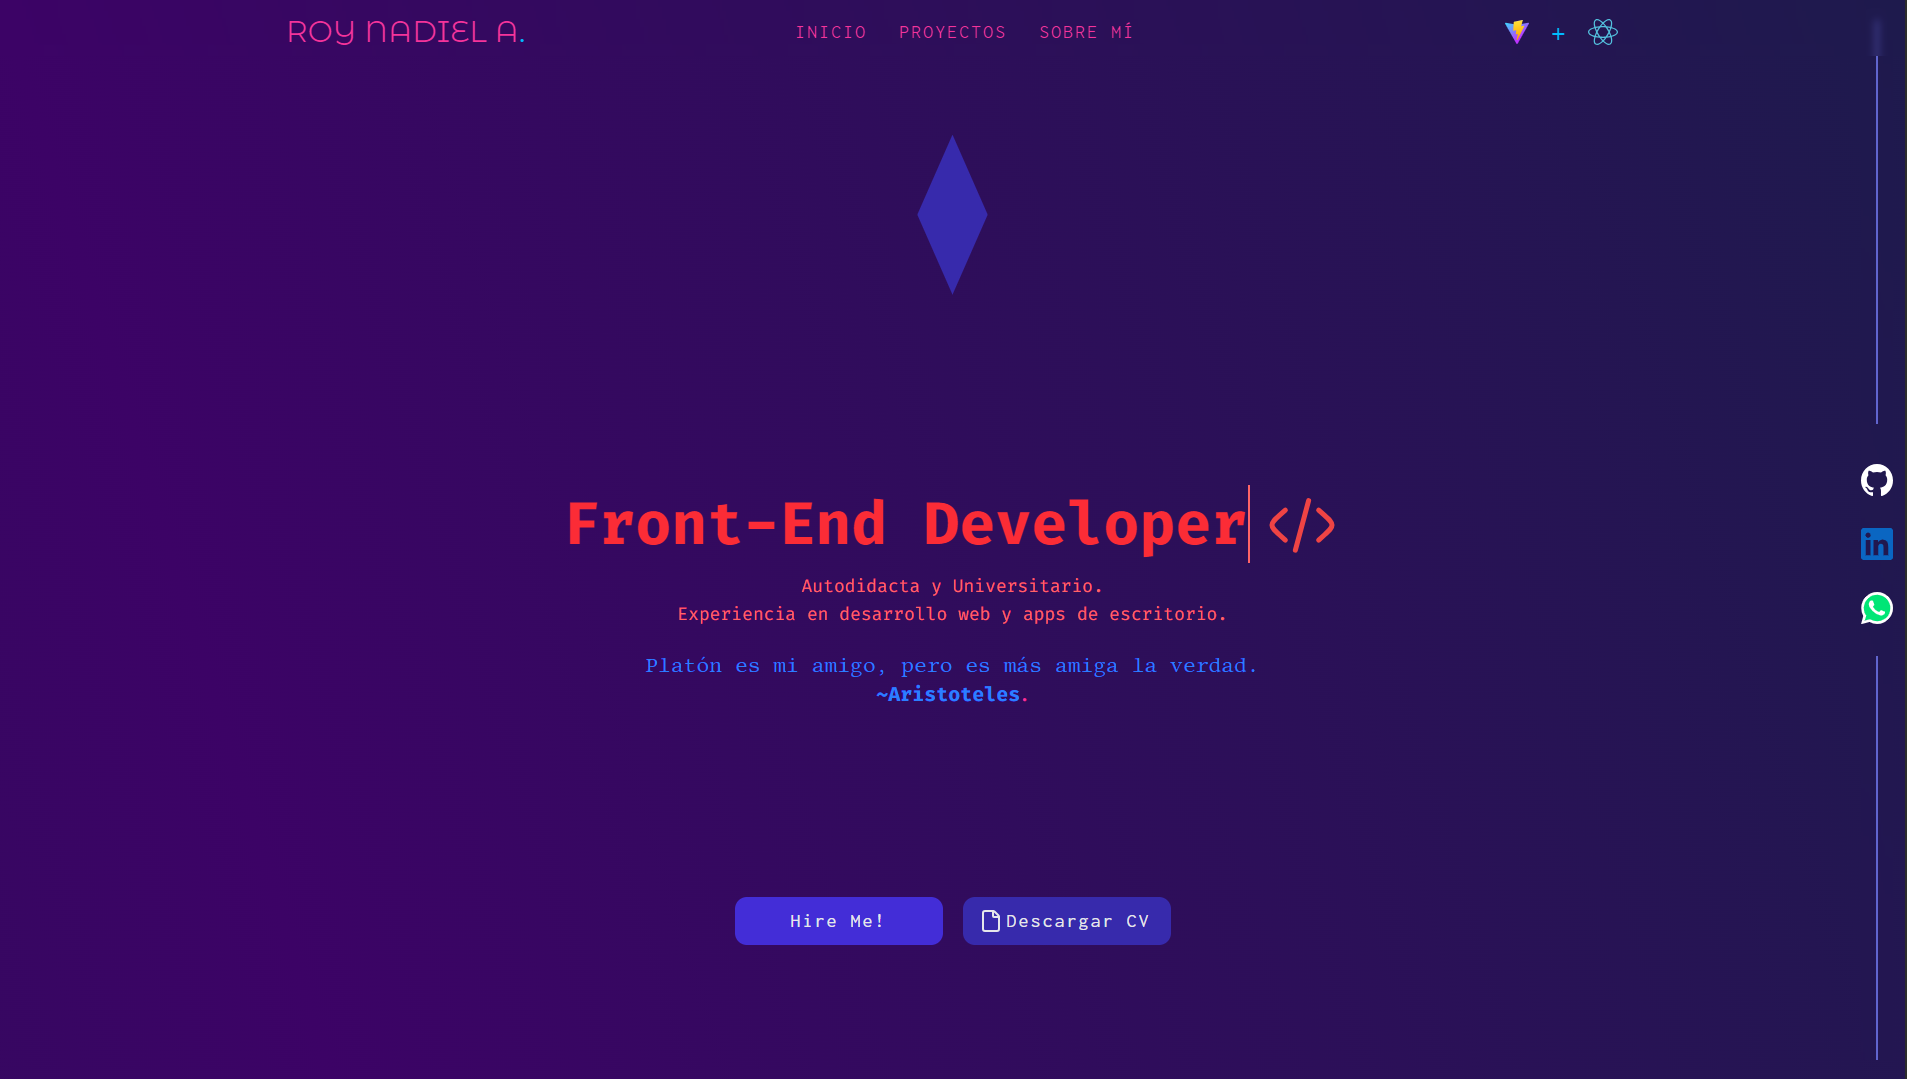
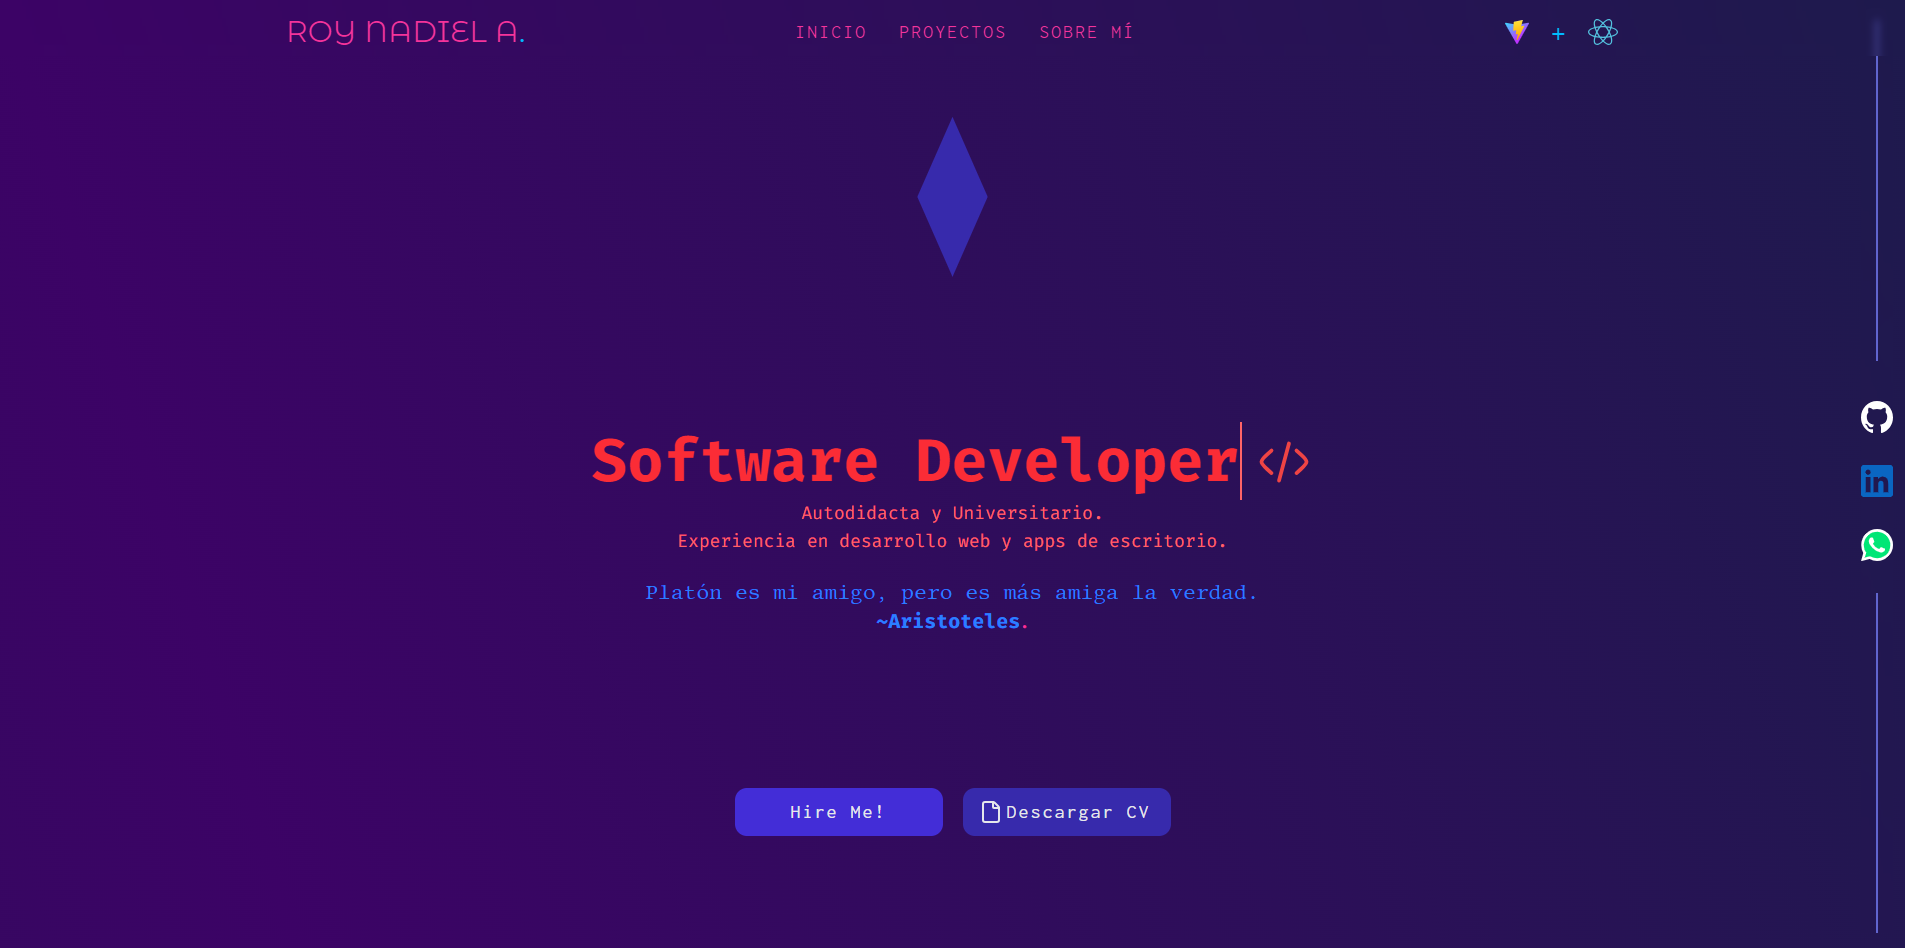
style: actualización del titulo de presentación laboral. feat:og-image para previsualición

diff --git a/src/components/shared/TypyingEffect.jsx b/src/components/shared/TypyingEffect.jsx
@@ -1,65 +1,71 @@
-import React, { useState, useEffect } from 'react';
+import { useState, useEffect } from 'react';
 
-function TypingEffect({ text, typingSpeed = 100, deletingSpeed = 50, delay = 1000, loop = false }) {
+function TypingEffect({
+  // Ejemplo de uso: "Hola\n¿Cómo estás?"
+  text,
+  typingSpeed = 100,
+  deletingSpeed = 50,
+  delay = 1000,
+  loop = false,
+}) {
   const [displayedText, setDisplayedText] = useState('');
   const [isDeleting, setIsDeleting] = useState(false);
-  const [index, setIndex] = useState(0); // Índice del carácter actual en 'text'
-  const [loopNum, setLoopNum] = useState(0); // Para controlar los bucles si loop es true
+  const [index, setIndex] = useState(0);
+  const [loopNum, setLoopNum] = useState(0);
 
   useEffect(() => {
     const handleTyping = () => {
-      const currentText = text; // El texto completo que queremos mostrar
+      const currentText = text;
 
       if (isDeleting) {
-        // Modo borrado
-        setDisplayedText(prev => currentText.substring(0, prev.length - 1));
+        setDisplayedText((prev) => currentText.substring(0, prev.length - 1));
 
-        // Si ya se borró todo el texto
         if (displayedText === '') {
-          setIsDeleting(false); // Cambia a modo escritura
-          setIndex(0); // Reinicia el índice
-          setLoopNum(prev => prev + 1); // Incrementa el contador de bucles
+          setIsDeleting(false);
+          setIndex(0);
+          setLoopNum((prev) => prev + 1);
         }
       } else {
-        // Modo escritura
-        // Añade el siguiente carácter si todavía hay caracteres por escribir
         if (index < currentText.length) {
-          setDisplayedText(prev => prev + currentText[index]);
-          setIndex(prev => prev + 1);
+          setDisplayedText((prev) => prev + currentText[index]);
+          setIndex((prev) => prev + 1);
         }
 
-        // Si se terminó de escribir el texto completo
         if (index === currentText.length) {
           if (loop) {
-            // Si es un bucle, esperamos un delay y empezamos a borrar
             setTimeout(() => setIsDeleting(true), delay);
           } else {
-            // Si NO es un bucle y hemos terminado de escribir, no hacemos nada más.
-            // Importante: No programar más timeouts si no hay loop y ya se escribió todo.
             return;
           }
         }
       }
     };
 
-    // Detener completamente el temporizador si no estamos en modo loop y el texto ya se ha escrito
-    if (!loop && !isDeleting && index === text.length) {
-      return;
-    }
+    if (!loop && !isDeleting && index === text.length) return;
 
-    // Calcular el tiempo del siguiente paso
     const timeoutDuration = isDeleting ? deletingSpeed : typingSpeed;
-
     const timeout = setTimeout(handleTyping, timeoutDuration);
 
-    // Función de limpieza
     return () => clearTimeout(timeout);
-  }, [displayedText, isDeleting, index, text, typingSpeed, deletingSpeed, delay, loop, loopNum]); // Dependencias
+  }, [
+    displayedText,
+    isDeleting,
+    index,
+    text,
+    typingSpeed,
+    deletingSpeed,
+    delay,
+    loop,
+    loopNum,
+  ]);
 
   return (
     <span
-      className="
-        border-r-2 border-red-500 animate-[blink-caret_1.25s_step-end_infinite] mr-1">
+      className="border-r-2 border-red-500 animate-[blink-caret_1.25s_step-end_infinite] mr-1 whitespace-pre-wrap"
+      /* IMPORTANTE: 'whitespace-pre-wrap' permite que los caracteres \n 
+         se rendericen como saltos de línea reales.
+      */
+    >
       {displayedText}
     </span>
   );

diff --git a/src/components/layout/Hero.jsx b/src/components/layout/Hero.jsx
@@ -2,6 +2,7 @@ import Polygon from '../shared/Polygon';
 import { useState } from 'react';
 import TypingEffect from '../shared/TypyingEffect.jsx';
 import { File } from 'lucide-react';
+import { CodeSVG } from '../shared/SVG.jsx';
 
 export default function Hero() {
   const [isHovered, setIsHovered] = useState(false);
@@ -26,48 +27,15 @@ export default function Hero() {
           className={`${isHovered ? 'bg-[#f01cff] transition-all duration-500 ease-in-out scale-110' : 'bg-indigo-800 transition-all duration-500 ease-in-out shrink-0'}`}
         />
 
-        <div>
+        <div className="flex flex-col items-center">
           <h2
             className="flex flex-col text-5xl lg:text-6xl items-center justify-center gap-2 font-fira-code font-bold text-red-500
                         md:flex-row"
           >
             <strong>
-              <TypingEffect text="Front-End Developer" typingSpeed={150} />
+              <TypingEffect text={`Software Developer`} typingSpeed={100} />
             </strong>
-            <svg
-              className="w-15 md:w-20 shrink-0 md:flex hidden"
-              viewBox="0 0 24 24"
-              fill="none"
-              xmlns="http://www.w3.org/2000/svg"
-            >
-              <g id="SVGRepo_bgCarrier" strokeWidth="0"></g>
-              <g
-                id="SVGRepo_tracerCarrier"
-                strokeLinecap="round"
-                strokeLinejoin="round"
-              ></g>
-              <g id="SVGRepo_iconCarrier">
-                {' '}
-                <path
-                  d="M17 7.82959L18.6965 9.35641C20.239 10.7447 21.0103 11.4389 21.0103 12.3296C21.0103 13.2203 20.239 13.9145 18.6965 15.3028L17 16.8296"
-                  stroke="#EF4444"
-                  strokeWidth="1.5"
-                  strokeLinecap="round"
-                ></path>{' '}
-                <path
-                  d="M13.9868 5L12 12.4149L10.0132 19.8297"
-                  stroke="#EF4444"
-                  strokeWidth="1.5"
-                  strokeLinecap="round"
-                ></path>{' '}
-                <path
-                  d="M7.00005 7.82959L5.30358 9.35641C3.76102 10.7447 2.98975 11.4389 2.98975 12.3296C2.98975 13.2203 3.76102 13.9145 5.30358 15.3028L7.00005 16.8296"
-                  stroke="#EF4444"
-                  strokeWidth="1.5"
-                  strokeLinecap="round"
-                ></path>{' '}
-              </g>
-            </svg>
+            <CodeSVG />
           </h2>
           <p className="max-w-200 text-lg font-fira-code text-red-400 mt-10 md:mt-2">
             Autodidacta y Universitario.

diff --git a/index.html b/index.html
@@ -40,15 +40,15 @@
     />
     <meta name="viewport" content="width=device-width, initial-scale=1.0" />
     <meta name="description" content="Portafolio Web de Roy Nadiel Almada" />
-    <meta name="keywords" content="Portfolio, Roy Nadiel, Roy Nadiel Almada" />
+    <meta
+      name="keywords"
+      content="Portfolio, Portafolio, Roy Nadiel, Roy Nadiel Almada, Software Developer, Programador, Desarrollador Web, Desarrollador de Software"
+    />
     <meta name="og:title" content="Roy Nadiel | Portfolio" />
     <meta name="og:description" content="Portafolio Web de Roy Nadiel Almada" />
     <meta name="og:type" content="website" />
     <meta name="og:url" content="https://roynadiel.github.io/" />
-    <meta
-      name="og:image"
-      content="https://roynadiel.github.io/via-lactea.png"
-    />
+    <meta name="og:image" content="https://roynadiel.github.io/og-image.png" />
     <meta name="twitter:card" content="summary_large_image" />
     <meta name="twitter:title" content="Roy Nadiel | Portfolio" />
     <meta
@@ -57,7 +57,7 @@
     />
     <meta
       name="twitter:image"
-      content="https://roynadiel.github.io/via-lactea.png"
+      content="https://roynadiel.github.io/og-image.png"
     />
     <title>Roy Nadiel | Portfolio</title>
   </head>

diff --git a/src/components/shared/SVG.jsx b/src/components/shared/SVG.jsx
@@ -426,3 +426,42 @@ export function GitHubSVG() {
     </svg>
   );
 }
+
+export function CodeSVG() {
+  return (
+    <svg
+      className="w-12 md:w-15 shrink-0"
+      viewBox="0 0 24 24"
+      fill="none"
+      xmlns="http://www.w3.org/2000/svg"
+    >
+      <g id="SVGRepo_bgCarrier" strokeWidth="0"></g>
+      <g
+        id="SVGRepo_tracerCarrier"
+        strokeLinecap="round"
+        strokeLinejoin="round"
+      ></g>
+      <g id="SVGRepo_iconCarrier">
+        {' '}
+        <path
+          d="M17 7.82959L18.6965 9.35641C20.239 10.7447 21.0103 11.4389 21.0103 12.3296C21.0103 13.2203 20.239 13.9145 18.6965 15.3028L17 16.8296"
+          stroke="#EF4444"
+          strokeWidth="1.5"
+          strokeLinecap="round"
+        ></path>{' '}
+        <path
+          d="M13.9868 5L12 12.4149L10.0132 19.8297"
+          stroke="#EF4444"
+          strokeWidth="1.5"
+          strokeLinecap="round"
+        ></path>{' '}
+        <path
+          d="M7.00005 7.82959L5.30358 9.35641C3.76102 10.7447 2.98975 11.4389 2.98975 12.3296C2.98975 13.2203 3.76102 13.9145 5.30358 15.3028L7.00005 16.8296"
+          stroke="#EF4444"
+          strokeWidth="1.5"
+          strokeLinecap="round"
+        ></path>{' '}
+      </g>
+    </svg>
+  );
+}

diff --git a/src/components/layout/Header.jsx b/src/components/layout/Header.jsx
@@ -16,7 +16,9 @@ export default function Header() {
         className="text-xl font-montserrat-alt text-pink-500
                 lg:text-2xl xl:text-3xl"
       >
-        ROY NADIEL A<span className="text-sky-400 text-3xl">.</span>
+        <strong>
+          ROY NADIEL A<span className="text-sky-400 text-3xl">.</span>
+        </strong>
       </h1>
       <nav
         className="inline-flex justify-center gap-3 flex-wrap md:gap-8 md:flex-nowrap"
